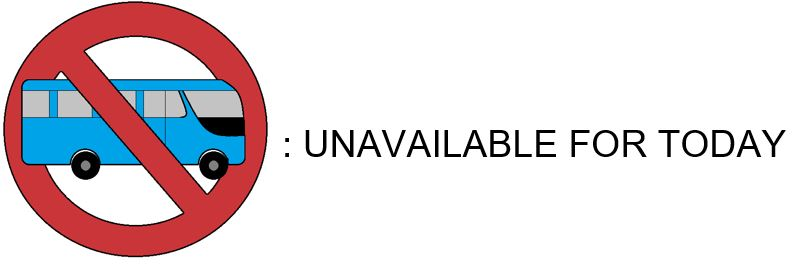
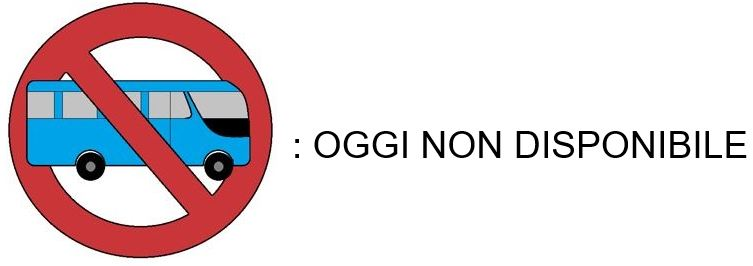
title first commit

Changed region(s): [[0.0, 0.0, 1.0, 0.9925]]

diff --git a/app.py b/app.py
@@ -85,7 +85,7 @@ def arancio_andata():
             list_min = [item for item in dict[hour] if minute < item]
             if (len(list_min) == 1):
                 if(hour == max(dict.keys())):
-                    delta_minute =  'The last one in ' + str(list_min[0] - minute) + ' min'
+                    delta_minute = 'Ulitmo del giorno tra ' + str(list_min[0] - minute) + ' min'
                     tup.append(delta_minute)
                 else:
                     delta_minute = list_min[0] - minute
@@ -110,21 +110,21 @@ def arancio_andata():
                         delta_minute_next = min(dict[hour + 1]) + 60 - minute
                         tup.append(delta_minute_next)
                     elif(hour + 1 < max(dict.keys())):
-                        delta_minute = 'The only one in this hour ' + str(hour + 1) + 'in ' + str(min(dict[hour + 1]) + 60 - minute) + ' min'
+                        delta_minute = 'Unico delle ore ' + str(hour + 1) + 'tra ' + str(min(dict[hour + 1]) + 60 - minute) + ' min'
                         tup.append(delta_minute)
                     else:
-                        delta_minute = 'The Last one in ' + str(min(dict[hour + 1]) + 60 - minute) + ' min'
+                        delta_minute = 'Ultimo del giorno tra ' + str(min(dict[hour + 1]) + 60 - minute) + ' min'
                         tup.append(delta_minute)
 
         else:
             if (hour < min(dict.keys())):
                 hh = min(dict.keys()) - hour
                 if(hh < 2):
-                    delta_minute = 'Start in ' + str(hh * 60 - minute + min(dict[min(dict.keys())])) + ' min'
+                    delta_minute = 'Inizio tra ' + str(hh * 60 - minute + min(dict[min(dict.keys())])) + ' min'
                     tup.append(delta_minute)
                 else:
                     M = min(dict[min(dict.keys())])
-                    delta_minute = 'Start at ' + str(datetime.time(min(dict.keys()),M).strftime("%H:%M"))
+                    delta_minute = 'Inizio alle ' + str(datetime.time(min(dict.keys()),M).strftime("%H:%M"))
                     tup.append(delta_minute)
             else:
                 delta_minute = "Finish"#'NON CI SONO CORSE PER OGGI'
@@ -214,7 +214,7 @@ def arancio_ritorno():
             list_min = [item for item in dict[hour] if minute < item]
             if (len(list_min) == 1):
                 if(hour == max(dict.keys())):
-                    delta_minute = 'The last one in ' + str(list_min[0] - minute) + ' min'
+                    delta_minute = 'Ulitmo del giorno tra ' + str(list_min[0] - minute) + ' min'
                     tup.append(delta_minute)
                 else:
                     delta_minute = list_min[0] - minute
@@ -239,11 +239,11 @@ def arancio_ritorno():
                         delta_minute_next = min(dict[hour + 1]) + 60 - minute
                         tup.append(delta_minute_next)
                     elif(hour + 1 < max(dict.keys())):
-                        delta_minute = 'The only one in this hour ' + str(hour + 1) + 'in ' + \
+                        delta_minute = 'Unico delle ore ' + str(hour + 1) + 'tra ' + \
                                                                 str(min(dict[hour + 1]) + 60 - minute) + ' min'
                         tup.append(delta_minute)
                     else:
-                        delta_minute = 'The Last one in ' + \
+                        delta_minute = 'Ultimo del giorno tra ' + \
                                                                 str(min(dict[hour + 1]) + 60 - minute) + ' min'
                         tup.append(delta_minute)
 
@@ -251,11 +251,11 @@ def arancio_ritorno():
             if (hour < min(dict.keys())):
                 hh = min(dict.keys()) - hour
                 if(hh < 2):
-                    delta_minute = 'Start in ' + str(hh * 60 - minute + min(dict[min(dict.keys())])) + ' min'
+                    delta_minute = 'Inizio tra ' + str(hh * 60 - minute + min(dict[min(dict.keys())])) + ' min'
                     tup.append(delta_minute)
                 else:
                     M = min(dict[min(dict.keys())])
-                    delta_minute = 'Start at ' + str(datetime.time(min(dict.keys()),M).strftime("%H:%M"))
+                    delta_minute = 'Inizio alle ' + str(datetime.time(min(dict.keys()),M).strftime("%H:%M"))
                     tup.append(delta_minute)
             else:
                 delta_minute = "Finish"#'NON CI SONO CORSE PER OGGI'
@@ -345,7 +345,7 @@ def rossa_andata():
             list_min = [item for item in dict[hour] if minute < item]
             if (len(list_min) == 1):
                 if(hour == max(dict.keys())):
-                    delta_minute =  'The last one in ' + str(list_min[0] - minute) + ' min'
+                    delta_minute = 'Ulitmo del giorno tra ' + str(list_min[0] - minute) + ' min'
                     tup.append(delta_minute)
                 else:
                     delta_minute = list_min[0] - minute
@@ -370,21 +370,21 @@ def rossa_andata():
                         delta_minute_next = min(dict[hour + 1]) + 60 - minute
                         tup.append(delta_minute_next)
                     elif(hour + 1 < max(dict.keys())):
-                        delta_minute = 'The only one in this hour ' + str(hour + 1) + 'in ' + str(min(dict[hour + 1]) + 60 - minute) + ' min'
+                        delta_minute = 'Unico delle ore ' + str(hour + 1) + 'tra ' + str(min(dict[hour + 1]) + 60 - minute) + ' min'
                         tup.append(delta_minute)
                     else:
-                        delta_minute = 'The Last one in ' + str(min(dict[hour + 1]) + 60 - minute) + ' min'
+                        delta_minute = 'Ultimo del giorno tra ' + str(min(dict[hour + 1]) + 60 - minute) + ' min'
                         tup.append(delta_minute)
 
         else:
             if (hour < min(dict.keys())):
                 hh = min(dict.keys()) - hour
                 if(hh < 2):
-                    delta_minute = 'Start in ' + str(hh * 60 - minute + min(dict[min(dict.keys())])) + ' min'
+                    delta_minute = 'Inizio tra ' + str(hh * 60 - minute + min(dict[min(dict.keys())])) + ' min'
                     tup.append(delta_minute)
                 else:
                     M = min(dict[min(dict.keys())])
-                    delta_minute = 'Start at ' + str(datetime.time(min(dict.keys()),M).strftime("%H:%M"))
+                    delta_minute = 'Inizio alle ' + str(datetime.time(min(dict.keys()),M).strftime("%H:%M"))
                     tup.append(delta_minute)
             else:
                 delta_minute = "Finish"#'NON CI SONO CORSE PER OGGI'
@@ -475,7 +475,7 @@ def rossa_ritorno():
             list_min = [item for item in dict[hour] if minute < item]
             if (len(list_min) == 1):
                 if(hour == max(dict.keys())):
-                    delta_minute =  'The last one in ' + str(list_min[0] - minute) + ' min'
+                    delta_minute = 'Ulitmo del giorno tra ' + str(list_min[0] - minute) + ' min'
                     tup.append(delta_minute)
                 else:
                     delta_minute = list_min[0] - minute
@@ -500,21 +500,21 @@ def rossa_ritorno():
                         delta_minute_next = min(dict[hour + 1]) + 60 - minute
                         tup.append(delta_minute_next)
                     elif(hour + 1 < max(dict.keys())):
-                        delta_minute = 'The only one in this hour ' + str(hour + 1) + 'in ' + str(min(dict[hour + 1]) + 60 - minute) + ' min'
+                        delta_minute = 'Unico delle ore ' + str(hour + 1) + 'tra ' + str(min(dict[hour + 1]) + 60 - minute) + ' min'
                         tup.append(delta_minute)
                     else:
-                        delta_minute = 'The Last one in ' + str(min(dict[hour + 1]) + 60 - minute) + ' min'
+                        delta_minute = 'Ultimo del giorno tra ' + str(min(dict[hour + 1]) + 60 - minute) + ' min'
                         tup.append(delta_minute)
 
         else:
             if (hour < min(dict.keys())):
                 hh = min(dict.keys()) - hour
                 if(hh < 2):
-                    delta_minute = 'Start in ' + str(hh * 60 - minute + min(dict[min(dict.keys())])) + ' min'
+                    delta_minute = 'Inzio tra ' + str(hh * 60 - minute + min(dict[min(dict.keys())])) + ' min'
                     tup.append(delta_minute)
                 else:
                     M = min(dict[min(dict.keys())])
-                    delta_minute = 'Start at ' + str(datetime.time(min(dict.keys()),M).strftime("%H:%M"))
+                    delta_minute = 'Inizio alle ' + str(datetime.time(min(dict.keys()),M).strftime("%H:%M"))
                     tup.append(delta_minute)
             else:
                 delta_minute = "Finish"#'NON CI SONO CORSE PER OGGI'
@@ -610,7 +610,7 @@ def blu_andata():
             list_min = [item for item in dict[hour] if minute < item]
             if (len(list_min) == 1):
                 if(hour == max(dict.keys())):
-                    delta_minute =  'The last one in ' + str(list_min[0] - minute) + ' min'
+                    delta_minute =  'Ulitmo del giorno tra ' + str(list_min[0] - minute) + ' min'
                     tup.append(delta_minute)
                 else:
                     delta_minute = list_min[0] - minute
@@ -635,21 +635,21 @@ def blu_andata():
                         delta_minute_next = min(dict[hour + 1]) + 60 - minute
                         tup.append(delta_minute_next)
                     elif(hour + 1 < max(dict.keys())):
-                        delta_minute = 'The only one in this hour ' + str(hour + 1) + 'in ' + str(min(dict[hour + 1]) + 60 - minute) + ' min'
+                        delta_minute = 'Unico delle ore ' + str(hour + 1) + 'tra ' + str(min(dict[hour + 1]) + 60 - minute) + ' min'
                         tup.append(delta_minute)
                     else:
-                        delta_minute = 'The Last one in ' + str(min(dict[hour + 1]) + 60 - minute) + ' min'
+                        delta_minute = 'Ultimo del giorno tra ' + str(min(dict[hour + 1]) + 60 - minute) + ' min'
                         tup.append(delta_minute)
 
         else:
             if (hour < min(dict.keys())):
                 hh = min(dict.keys()) - hour
                 if(hh < 2):
-                    delta_minute = 'Start in ' + str(hh * 60 - minute + min(dict[min(dict.keys())])) + ' min'
+                    delta_minute = 'Inizio tra ' + str(hh * 60 - minute + min(dict[min(dict.keys())])) + ' min'
                     tup.append(delta_minute)
                 else:
                     M = min(dict[min(dict.keys())])
-                    delta_minute = 'Start at ' + str(datetime.time(min(dict.keys()),M).strftime("%H:%M"))
+                    delta_minute = 'Inizio alle ' + str(datetime.time(min(dict.keys()),M).strftime("%H:%M"))
                     tup.append(delta_minute)
             else:
                 delta_minute = "Finish"#'NON CI SONO CORSE PER OGGI'
@@ -740,7 +740,7 @@ def blu_ritorno():
             list_min = [item for item in dict[hour] if minute < item]
             if (len(list_min) == 1):
                 if (hour == max(dict.keys())):
-                    delta_minute = 'The last one in ' + str(list_min[0] - minute) + ' min'
+                    delta_minute = 'Ulitmo del giorno tra ' + str(list_min[0] - minute) + ' min'
                     tup.append(delta_minute)
                 else:
                     delta_minute = list_min[0] - minute
@@ -765,22 +765,22 @@ def blu_ritorno():
                         delta_minute_next = min(dict[hour + 1]) + 60 - minute
                         tup.append(delta_minute_next)
                     elif (hour + 1 < max(dict.keys())):
-                        delta_minute = 'The only one in this hour ' + str(hour + 1) + 'in ' + str(
+                        delta_minute = 'Unico delle ore ' + str(hour + 1) + 'tra ' + str(
                             min(dict[hour + 1]) + 60 - minute) + ' min'
                         tup.append(delta_minute)
                     else:
-                        delta_minute = 'The Last one in ' + str(min(dict[hour + 1]) + 60 - minute) + ' min'
+                        delta_minute = 'Ultimo del giorno tra ' + str(min(dict[hour + 1]) + 60 - minute) + ' min'
                         tup.append(delta_minute)
 
         else:
             if (hour < min(dict.keys())):
                 hh = min(dict.keys()) - hour
                 if (hh < 2):
-                    delta_minute = 'Start in ' + str(hh * 60 - minute + min(dict[min(dict.keys())])) + ' min'
+                    delta_minute = 'Inizio alle ' + str(hh * 60 - minute + min(dict[min(dict.keys())])) + ' min'
                     tup.append(delta_minute)
                 else:
                     M = min(dict[min(dict.keys())])
-                    delta_minute = 'Start at ' + str(datetime.time(min(dict.keys()), M).strftime("%H:%M"))
+                    delta_minute = 'Inizio tra ' + str(datetime.time(min(dict.keys()), M).strftime("%H:%M"))
                     tup.append(delta_minute)
             else:
                 delta_minute = "Finish"  # 'NON CI SONO CORSE PER OGGI'
